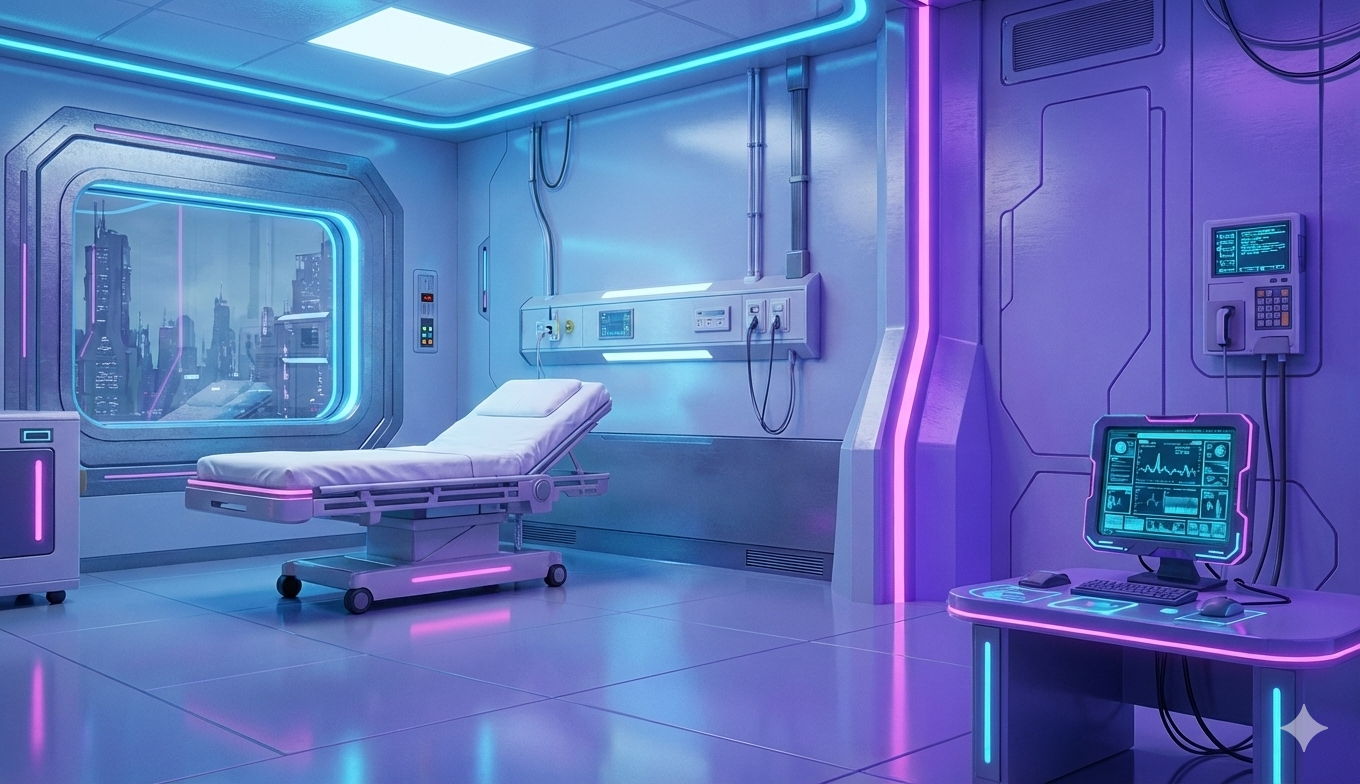
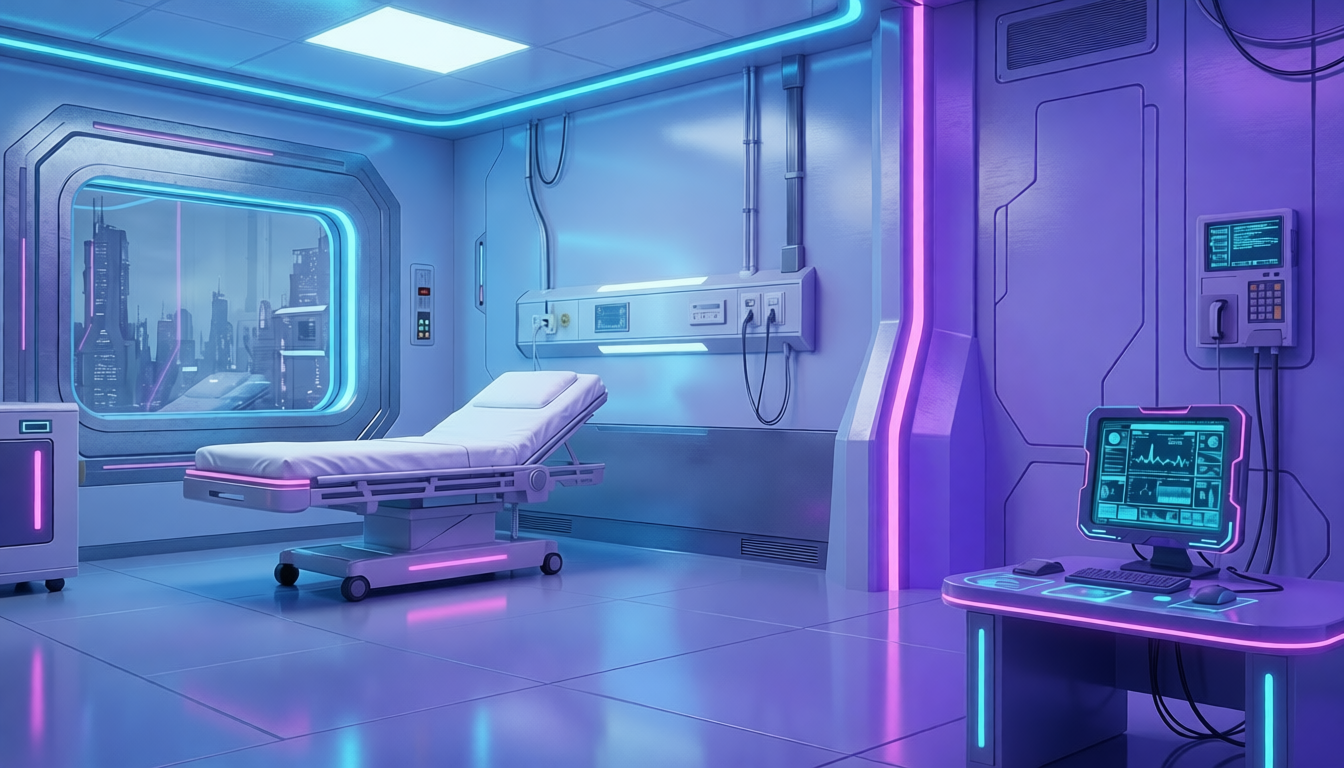
Meilleur fond + Correction comparative

diff --git a/js/game.js b/js/game.js
@@ -725,8 +725,9 @@ document.addEventListener('DOMContentLoaded', async () => {
         const correctDiagnostic = currentCase.correctDiagnostic;
 
         const allCorrectSelected = correctTreatments.every(t => selectedTreatments.includes(t));
+        const isCorrect = selectedDiagnostic === correctDiagnostic && allCorrectSelected && selectedTreatments.length === correctTreatments.length;
 
-        if (selectedDiagnostic === correctDiagnostic && allCorrectSelected && selectedTreatments.length === correctTreatments.length) {
+        if (isCorrect) {
             score = calculateScore();
             feedbackDisplay.textContent = 'Diagnostic et traitement corrects !';
 
@@ -738,7 +739,7 @@ document.addEventListener('DOMContentLoaded', async () => {
 
             // Sauvegarde de l'élément audio pour le réutiliser plus tard
             const backgroundMusic = document.querySelector('audio');
-            backgroundMusic.pause();
+            if (backgroundMusic) backgroundMusic.pause();
 
             // Lecture du son de succès
             const successSound = new Audio('assets/sounds/feux_artifice.mp3');
@@ -747,17 +748,9 @@ document.addEventListener('DOMContentLoaded', async () => {
             fireworksInstance = fireworks;
             backgroundMusicEl = backgroundMusic;
             fireworks.start();
-            showCorrectionModal(currentCase.correction || `Diagnostic optimal: ${correctDiagnostic}\nTraitements optimaux: ${(correctTreatments || []).join(', ')}`);
 
             scoreDisplay.textContent = `Score final: ${score}`;
             document.getElementById('treatment-feedback').textContent = '';
-
-            // Mise à jour du cookie
-            let playedCases = getCookie('playedCases');
-            playedCases = playedCases ? playedCases.split(',') : [];
-            playedCases.push(currentCase.id);
-            setCookie('playedCases', playedCases.join(','), 365);
-
         } else {
             let feedback = '';
             if (selectedDiagnostic !== correctDiagnostic) {
@@ -770,10 +763,11 @@ document.addEventListener('DOMContentLoaded', async () => {
             if (!allTreatmentsCorrect || selectedTreatments.length !== correctTreatments.length) {
                 feedback += "Traitement incorrect ou incomplet.";
                 document.getElementById('treatment-feedback').textContent = feedback;
-
-                const incorrectSound = new Audio('assets/sounds/wrong buzzer.mp3');
-                incorrectSound.play();
+                // REMOVED: Failure sound
             }
+
+            // Score remains 0 if incorrect
+            scoreDisplay.textContent = `Score final: ${score}`;
         }
 
         // Gestion des classes CSS pour les boutons de traitement
@@ -792,6 +786,98 @@ document.addEventListener('DOMContentLoaded', async () => {
                 }
             }
         });
+
+        // Calculate percentage score
+        let percentageScore = 0;
+        const diagnosticWeight = 50; // 50% for diagnostic
+        const treatmentWeight = 50; // 50% for treatments
+
+        // Diagnostic score
+        if (selectedDiagnostic === correctDiagnostic) {
+            percentageScore += diagnosticWeight;
+        }
+
+        // Treatment score
+        if (correctTreatments.length > 0) {
+            const correctSelectedCount = selectedTreatments.filter(t => correctTreatments.includes(t)).length;
+            const incorrectSelectedCount = selectedTreatments.filter(t => !correctTreatments.includes(t)).length;
+
+            // Award points for correct treatments, penalize for incorrect ones
+            const treatmentPointsPerCorrect = treatmentWeight / correctTreatments.length;
+            percentageScore += correctSelectedCount * treatmentPointsPerCorrect;
+
+            // Optionally penalize for wrong treatments (commented out for now)
+            // percentageScore -= incorrectSelectedCount * (treatmentPointsPerCorrect / 2);
+        }
+
+        percentageScore = Math.max(0, Math.min(100, Math.round(percentageScore)));
+
+        // Build color-coded comparison HTML
+        const diagnosticCorrect = selectedDiagnostic === correctDiagnostic;
+        const diagnosticUserStyle = diagnosticCorrect
+            ? 'background: rgba(46, 204, 113, 0.3); padding: 5px; border-radius: 4px;'
+            : 'background: rgba(231, 76, 60, 0.3); padding: 5px; border-radius: 4px;';
+
+        // Build treatments list with color coding
+        let userTreatmentsHtml = '';
+        if (selectedTreatments.length === 0) {
+            userTreatmentsHtml = '<span style="background: rgba(231, 76, 60, 0.3); padding: 5px; border-radius: 4px;">Aucun</span>';
+        } else {
+            userTreatmentsHtml = selectedTreatments.map(t => {
+                const isCorrect = correctTreatments.includes(t);
+                const style = isCorrect
+                    ? 'background: rgba(46, 204, 113, 0.3); padding: 3px 8px; border-radius: 4px; margin: 2px; display: inline-block;'
+                    : 'background: rgba(231, 76, 60, 0.3); padding: 3px 8px; border-radius: 4px; margin: 2px; display: inline-block;';
+                return `<span style="${style}">${t}</span>`;
+            }).join(' ');
+        }
+
+        // Build expected treatments with highlighting for what was selected
+        let expectedTreatmentsHtml = correctTreatments.map(t => {
+            const wasSelected = selectedTreatments.includes(t);
+            const style = wasSelected
+                ? 'background: rgba(46, 204, 113, 0.3); padding: 3px 8px; border-radius: 4px; margin: 2px; display: inline-block;'
+                : 'background: rgba(255, 193, 7, 0.3); padding: 3px 8px; border-radius: 4px; margin: 2px; display: inline-block;';
+            return `<span style="${style}">${t}</span>`;
+        }).join(' ');
+
+        const comparisonHtml = `
+            <div class="correction-comparison" style="margin-bottom: 20px; padding: 15px; background: rgba(0,0,0,0.2); border-radius: 8px;">
+                <div style="text-align: center; margin-bottom: 15px;">
+                    <h3 style="color: ${percentageScore >= 50 ? '#2ecc71' : '#e74c3c'}; font-size: 2em; margin: 0;">
+                        Score: ${percentageScore}%
+                    </h3>
+                </div>
+                <div style="margin-bottom: 10px;">
+                    <h4 style="color: #e74c3c; margin-bottom: 5px;">Votre Réponse</h4>
+                    <p><strong>Diagnostic:</strong> <span style="${diagnosticUserStyle}">${selectedDiagnostic || 'Aucun'}</span></p>
+                    <p><strong>Traitements:</strong> ${userTreatmentsHtml}</p>
+                </div>
+                <div>
+                    <h4 style="color: #2ecc71; margin-bottom: 5px;">Réponse Attendue</h4>
+                    <p><strong>Diagnostic:</strong> ${correctDiagnostic}</p>
+                    <p><strong>Traitements:</strong> ${expectedTreatmentsHtml}</p>
+                    <p style="font-size: 0.9em; color: #aaa; margin-top: 5px;">
+                        <span style="background: rgba(46, 204, 113, 0.3); padding: 2px 6px; border-radius: 3px;">Vert</span> = Correct | 
+                        <span style="background: rgba(255, 193, 7, 0.3); padding: 2px 6px; border-radius: 3px;">Jaune</span> = Manquant | 
+                        <span style="background: rgba(231, 76, 60, 0.3); padding: 2px 6px; border-radius: 3px;">Rouge</span> = Incorrect
+                    </p>
+                </div>
+            </div>
+            <hr style="border-color: rgba(255,255,255,0.1); margin: 20px 0;">
+        `;
+
+        // ALWAYS show correction and update cookie
+        const correctionText = currentCase.correction || `Diagnostic optimal: ${correctDiagnostic}\nTraitements optimaux: ${(correctTreatments || []).join(', ')}`;
+        showCorrectionModal(comparisonHtml + correctionText);
+
+        // Mise à jour du cookie
+        let playedCases = getCookie('playedCases');
+        playedCases = playedCases ? playedCases.split(',') : [];
+        if (!playedCases.includes(currentCase.id)) {
+            playedCases.push(currentCase.id);
+            setCookie('playedCases', playedCases.join(','), 365);
+        }
     });
 
     // La gestion des boutons d'examens est maintenant faite dynamiquement dans loadCase()
